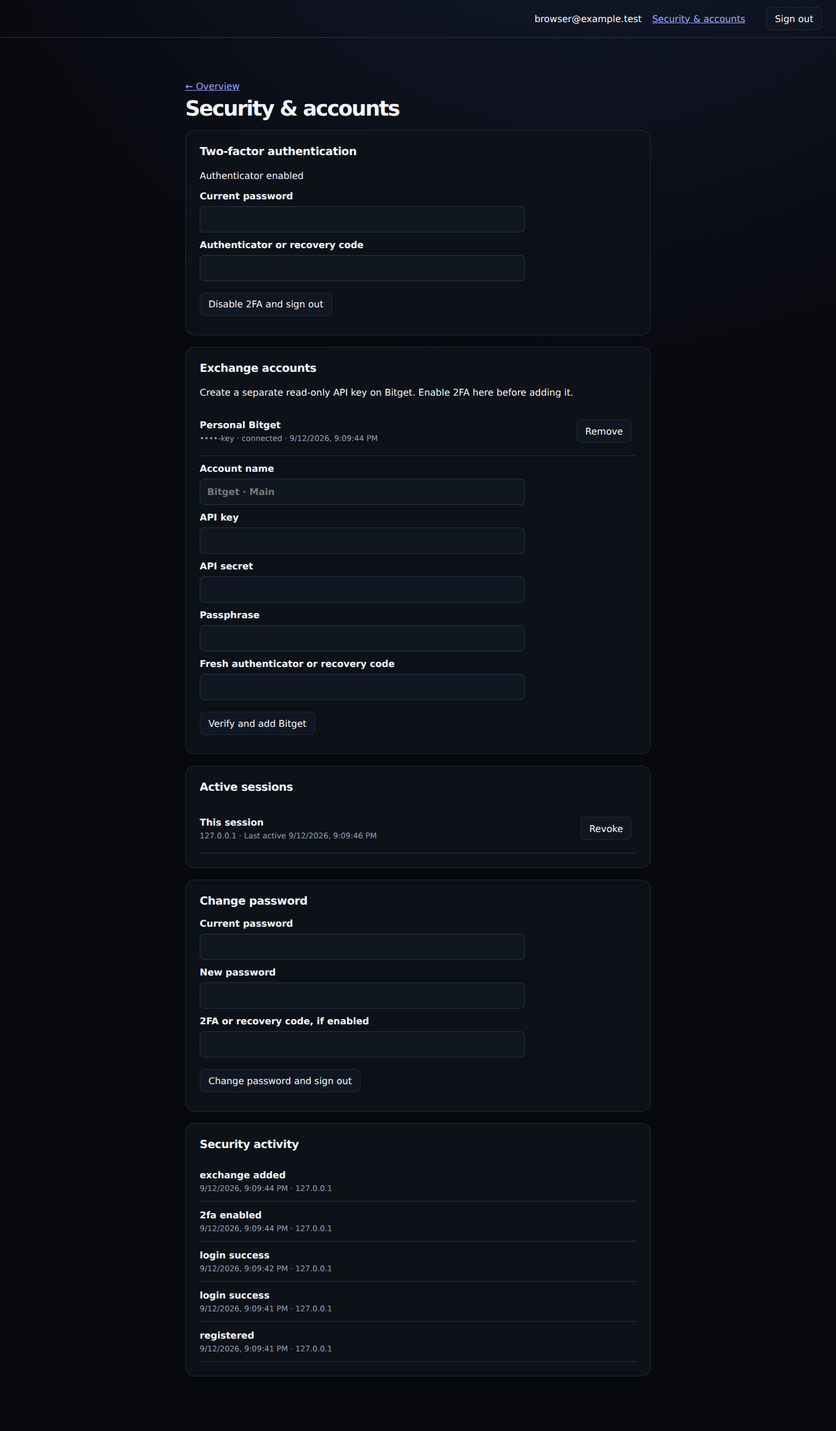
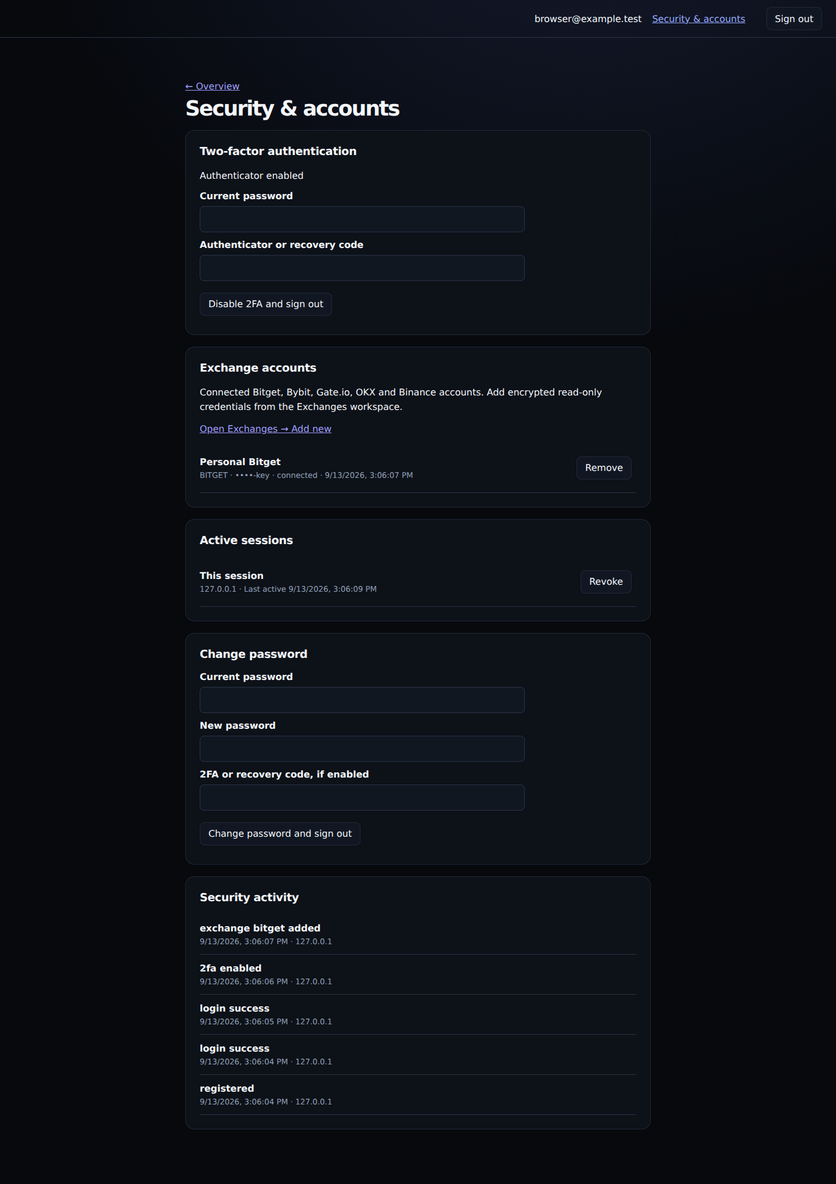
add multi exchanges

diff --git a/server/accounts.js b/server/accounts.js
@@ -1,5 +1,5 @@
 const crypto=require('node:crypto');
-const {createBitgetClient}=require('./bitget');
+const {createExchangeClient,definition}=require('./exchanges');
 const {seal,unseal}=require('./auth/crypto');
 const {userId}=require('./user-db');
 const {fail}=require('./auth/service');
@@ -7,16 +7,18 @@ function createAccounts(pool,auth){
   const cache=new Map();
   const aad=(owner,id)=>`exchange:${owner}:${id}`;
   async function list(){return(await pool.query('SELECT id,name,exchange,key_hint,status,last_checked,created_at FROM exchange_connections WHERE user_id=$1 ORDER BY created_at',[userId()])).rows;}
-  async function all(){
+  async function all({force=false}={}){
     const rows=(await pool.query('SELECT * FROM exchange_connections WHERE user_id=$1 ORDER BY created_at',[userId()])).rows;
     const accounts=[],warnings=[];
     for(const row of rows){
       try {
         let data=cache.get(row.id);
-        if(!data||Date.now()-data.updatedAt>20000){
+        if(force||!data||Date.now()-data.updatedAt>20000){
           const credentials=unseal(row.credentials,aad(row.user_id,row.id));
-          data=await createBitgetClient(credentials).fetchBitgetAccounts();cache.set(row.id,data);
+          const client=createExchangeClient(row.exchange,credentials);
+          data=client.fetchAccounts?await client.fetchAccounts():await client.fetchBitgetAccounts();cache.set(row.id,data);
           await pool.query("UPDATE exchange_connections SET last_checked=NOW(),status='connected' WHERE user_id=$1 AND id=$2",[row.user_id,row.id]);
+          row.status='connected';
         }
         for(const account of data.accounts){
           const id=`${row.id}:${account.type}`;
@@ -25,9 +27,15 @@ function createAccounts(pool,auth){
             positions:account.positions.map(p=>({...p,id:`${id}:${p.id}`,accountId:id}))});
         }
         if(data.warnings?.length)warnings.push(...data.warnings.map(warning=>`${row.name}: ${String(warning).slice(0,240)}`));
-      }catch(error){cache.delete(row.id);warnings.push(`${row.name}: ${String(error?.message||'connection failed').slice(0,240)}`);await pool.query("UPDATE exchange_connections SET status='error' WHERE user_id=$1 AND id=$2",[row.user_id,row.id]);}
+      }catch(error){cache.delete(row.id);row.status='error';warnings.push(`${row.name}: ${String(error?.message||'connection failed').slice(0,240)}`);await pool.query("UPDATE exchange_connections SET status='error' WHERE user_id=$1 AND id=$2",[row.user_id,row.id]);}
     }
-    return {version:2,updatedAt:Date.now(),accounts,exchanges:rows.length?[{id:'bitget',name:'Bitget',status:warnings.length?'partial':'connected',accountIds:accounts.map(a=>a.id)}]:[],warnings};
+    const exchanges=[];
+    for(const [id,meta] of Object.entries(require('./exchanges').definitions)){
+      const matchingRows=rows.filter(row=>row.exchange===id);if(!matchingRows.length)continue;
+      const ids=accounts.filter(item=>item.exchangeId===id).map(item=>item.id);
+      exchanges.push({id,name:meta.name,status:matchingRows.some(row=>row.status==='error')?'partial':'connected',accountIds:ids});
+    }
+    return {version:3,updatedAt:Date.now(),accounts,exchanges,warnings};
   }
   async function summary(){
     const data=await all(), unified=data.accounts.filter(a=>a.type==='unified');
@@ -40,21 +48,23 @@ function createAccounts(pool,auth){
     app.get('/api/connections',auth.requireUser,async(req,res)=>res.json({items:await list()}));
     app.post('/api/connections',auth.requireUser,async(req,res)=>{
       await auth.factor(req);await auth.limit('connection:'+req.user.id,5,300);
+      const exchange=String(req.body?.exchange||'bitget').trim().toLowerCase(),meta=definition(exchange);
+      if(!meta)throw fail(400,'Choose a supported exchange');
       const name=String(req.body?.name||'').trim();
       const credentials={apiKey:String(req.body?.apiKey||'').trim(),secret:String(req.body?.secret||'').trim(),passphrase:String(req.body?.passphrase||'').trim()};
-      if(!name||name.length>80||Object.values(credentials).some(v=>!v||v.length>512))throw fail(400,'Enter an account name, API key, secret and passphrase');
-      if(req.body?.readOnlyConfirmed!=='yes')throw fail(400,'Confirm that this Bitget API key is Read-only with Unified account > Manage and Trade data access');
-      try{await createBitgetClient(credentials).validateReadOnly();}catch(error){
-        const message=String(error?.message||'Bitget validation failed').replace(/^Bitget request failed:\s*/,'').slice(0,180);
-        throw fail(400,`Bitget connection failed: ${message}`);
+      if(!name||name.length>80||!credentials.apiKey||!credentials.secret||credentials.apiKey.length>512||credentials.secret.length>512||credentials.passphrase.length>512||(meta.passphrase&&!credentials.passphrase))throw fail(400,`Enter an account name, API key, secret${meta.passphrase?' and passphrase':''}`);
+      if(req.body?.readOnlyConfirmed!=='yes')throw fail(400,`Confirm that this ${meta.name} API key is Read-only and cannot trade, transfer or withdraw`);
+      try{await createExchangeClient(exchange,credentials).validateReadOnly();}catch(error){
+        const message=String(error?.message||`${meta.name} validation failed`).replace(new RegExp(`^${meta.name.replace('.','\\.')} request failed:\\s*`,'i'),'').slice(0,180);
+        throw fail(400,`${meta.name} connection failed: ${message}`);
       }
       const id=crypto.randomUUID();
       await auth.tx(async client=>{
         await client.query('SELECT id FROM users WHERE id=$1 FOR UPDATE',[req.user.id]);
         const n=(await client.query('SELECT COUNT(*) AS count FROM exchange_connections WHERE user_id=$1',[req.user.id])).rows[0].count;
-        if(Number(n)>=3)throw fail(400,'This beta supports up to 3 exchange connections per user');
-        await client.query("INSERT INTO exchange_connections(id,user_id,exchange,name,key_hint,credentials,last_checked) VALUES($1,$2,'bitget',$3,$4,$5,NOW())",[id,req.user.id,name,'••••'+credentials.apiKey.slice(-4),seal(credentials,aad(req.user.id,id))]);
-      });await auth.audit(req.user.id,'exchange_added',req);res.status(201).json({id,name});
+        if(Number(n)>=12)throw fail(400,'This beta supports up to 12 exchange connections per user');
+        await client.query("INSERT INTO exchange_connections(id,user_id,exchange,name,key_hint,credentials,last_checked) VALUES($1,$2,$3,$4,$5,$6,NOW())",[id,req.user.id,exchange,name,'••••'+credentials.apiKey.slice(-4),seal(credentials,aad(req.user.id,id))]);
+      });await auth.audit(req.user.id,`exchange_${exchange}_added`,req);res.status(201).json({id,name,exchange});
     });
     app.delete('/api/connections/:id',auth.requireUser,async(req,res)=>{
       await auth.factor(req);

diff --git a/server/binance.js b/server/binance.js
@@ -1,0 +1,24 @@
+const crypto=require('node:crypto');
+const {numberOrNull,nonZero,baseAsset,stablecoin,optional,account}=require('./exchange-common');
+
+function createBinanceClient(credentials){
+  async function request(base,path,query={}){
+    const params=new URLSearchParams({...Object.fromEntries(Object.entries(query).filter(([,v])=>v!==undefined&&v!==null&&v!=='')),timestamp:String(Date.now()),recvWindow:'5000'});
+    params.set('signature',crypto.createHmac('sha256',credentials.secret).update(params.toString()).digest('hex'));
+    const response=await fetch(`${base}${path}?${params}`,{headers:{'X-MBX-APIKEY':credentials.apiKey},signal:AbortSignal.timeout(15000)});const body=await response.json().catch(()=>({}));
+    if(!response.ok||body?.code<0)throw new Error(`Binance request failed: ${String(body?.msg||`HTTP ${response.status}`).slice(0,180)}`);return body;
+  }
+  async function publicPrices(){const response=await fetch('https://api.binance.com/api/v3/ticker/price',{signal:AbortSignal.timeout(15000)});if(!response.ok)return new Map();const rows=await response.json();return new Map(rows.map(row=>[row.symbol,Number(row.price)]));}
+  async function fetchAccounts(){
+    const warnings=[],spot=await request('https://api.binance.com','/api/v3/account',{omitZeroBalances:'true'}),prices=await optional('USD valuation',publicPrices,warnings)||new Map();
+    const futures=await optional('USD-M Futures',()=>request('https://fapi.binance.com','/fapi/v3/account'),warnings);
+    const usdValue=(coin,amount)=>stablecoin(coin)?Number(amount):(prices.get(`${coin}USDT`)?Number(amount)*prices.get(`${coin}USDT`):null);
+    const spotAssets=(spot.balances||[]).map(item=>{const equity=Number(item.free||0)+Number(item.locked||0);return {id:`binance:spot:${item.asset}`,exchangeId:'binance',accountId:'binance:spot',coin:String(item.asset||''),equity,available:numberOrNull(item.free),locked:numberOrNull(item.locked),usdValue:usdValue(item.asset,equity),debt:null};}).filter(item=>item.coin&&nonZero(item.equity,item.available,item.locked));
+    const positions=(futures?.positions||[]).map(item=>{const signed=numberOrNull(item.positionAmt),side=String(item.positionSide)==='SHORT'||(signed!==null&&signed<0)?'short':'long',size=signed===null?null:Math.abs(signed);return {id:`binance:usdm:${item.symbol}:${side}`,exchangeId:'binance',accountId:'binance:usdm',category:'USD-M',symbol:String(item.symbol||''),baseAsset:baseAsset(item.symbol),side,marginMode:item.isolated?'isolated':'cross',marginCoin:'USDT',size,sizeCurrency:baseAsset(item.symbol),leverage:numberOrNull(item.leverage),entryPrice:numberOrNull(item.entryPrice),markPrice:null,notional:Math.abs(Number(item.notional||0)),margin:numberOrNull(item.positionInitialMargin),marginUsd:numberOrNull(item.positionInitialMargin),liquidationPrice:null,unrealisedPnl:numberOrNull(item.unrealizedProfit),unrealisedPnlUsd:numberOrNull(item.unrealizedProfit),pnlCurrency:'USDT',profitRate:null,updatedAt:null};}).filter(item=>Number(item.size)!==0);
+    const futureAssets=(futures?.assets||[]).map(item=>({id:`binance:usdm:${item.asset}`,exchangeId:'binance',accountId:'binance:usdm',coin:String(item.asset||''),equity:numberOrNull(item.walletBalance),available:numberOrNull(item.availableBalance),locked:numberOrNull(item.initialMargin),usdValue:usdValue(item.asset,item.walletBalance),debt:null})).filter(item=>item.coin&&nonZero(item.equity,item.available,item.locked));
+    const updatedAt=Date.now(),spotEquity=spotAssets.every(x=>x.usdValue!==null)?spotAssets.reduce((s,x)=>s+x.usdValue,0):null,accounts=[account({exchangeId:'binance',exchangeName:'Binance',name:'Spot',type:'spot',updatedAt,summary:{equityUsd:spotEquity},assets:spotAssets})];
+    if(futures)accounts.push(account({exchangeId:'binance',exchangeName:'Binance',name:'USD-M Futures',type:'usdm',updatedAt,summary:{equityUsd:numberOrNull(futures.totalWalletBalance),availableUsd:numberOrNull(futures.availableBalance),unrealisedPnl:numberOrNull(futures.totalUnrealizedProfit),positionValue:positions.reduce((s,p)=>s+Number(p.notional||0),0)},assets:futureAssets,positions}));return {updatedAt,accounts,warnings};
+  }
+  return {fetchAccounts,async validateReadOnly(){const permissions=await request('https://api.binance.com','/sapi/v1/account/apiRestrictions');if(permissions.enableWithdrawals||permissions.enableInternalTransfer||permissions.enableSpotAndMarginTrading||permissions.enableFutures)throw new Error('Binance API key has trading, transfer or withdrawal permissions. Disable them first.');await request('https://api.binance.com','/api/v3/account',{omitZeroBalances:'true'});return true;}};
+}
+module.exports={createBinanceClient};

diff --git a/docs/security.html b/docs/security.html
@@ -5,11 +5,10 @@
 <div id="factorSecret" hidden><p>In your authenticator, add an account using this setup key. Keep this key private.</p><pre class="secret-output" id="secretValue"></pre><form method="post" id="enableFactor"><label>Six-digit code<input name="code" autocomplete="one-time-code" pattern="[0-9]{6}" required></label><button disabled>Enable 2FA</button></form></div>
 <div id="recoveryPanel" hidden><h3>Save your recovery codes</h3><p>Each code can be used once. These codes are shown only now. Store them safely before leaving.</p><pre class="secret-output" id="recoveryValue"></pre><button id="savedCodes" type="button">I saved my codes</button></div>
 <form method="post" id="disableFactor" hidden><label>Current password<input name="password" type="password" autocomplete="current-password" required></label><label>Authenticator or recovery code<input name="code" autocomplete="one-time-code" required></label><button disabled>Disable 2FA and sign out</button></form></section>
-<section class="panel account-panel" id="exchange-accounts"><h2>Exchange accounts</h2><p>Create a separate Bitget API key. Select <strong>Read-only</strong>, then enable Unified account → <strong>Manage</strong> and <strong>Trade</strong> data access. Keep transfers and withdrawals disabled.</p><div id="connections"></div>
-<form method="post" id="addConnection"><label>Account name<input name="name" placeholder="Bitget · Main" maxlength="80" required></label><label>API key<input name="apiKey" type="password" autocomplete="off" required></label><label>API secret<input name="secret" type="password" autocomplete="off" required></label><label>Passphrase<input name="passphrase" type="password" autocomplete="off" required></label><label class="check-label"><input name="readOnlyConfirmed" type="checkbox" value="yes" required><span>I confirm this key is globally Read-only with Unified account → Manage and Trade data access; transfers and withdrawals are disabled.</span></label><label>Fresh authenticator or recovery code<input name="code" autocomplete="one-time-code" required></label><button disabled>Verify and add Bitget</button></form>
+<section class="panel account-panel" id="exchange-accounts"><h2>Exchange accounts</h2><p>Connected Bitget, Bybit, Gate.io, OKX and Binance accounts. Add encrypted read-only credentials from the Exchanges workspace.</p><p><a href="exchanges.html">Open Exchanges → Add new</a></p><div id="connections"></div>
 <form method="post" id="removeConnection" hidden><input name="id" type="hidden"><p id="removeName"></p><label>Fresh authenticator or recovery code<input name="code" autocomplete="one-time-code" required></label><button disabled>Remove connection</button><button type="button" id="cancelRemove">Cancel</button></form></section>
 <section class="panel account-panel"><h2>Active sessions</h2><div id="sessions"></div></section>
 <section class="panel account-panel"><h2>Change password</h2><form method="post" id="changePassword"><label>Current password<input name="password" type="password" autocomplete="current-password" required></label><label>New password<input name="newPassword" type="password" autocomplete="new-password" minlength="12" maxlength="128" required></label><label>2FA or recovery code, if enabled<input name="code" autocomplete="one-time-code"></label><button disabled>Change password and sign out</button></form></section>
 <section class="panel account-panel"><h2>Security activity</h2><div id="events"></div></section>
-<section id="ownerSection" class="panel account-panel" hidden><h2>Existing personal workspace</h2><p>Only the configured owner can import the previous wallet settings and transaction history once. Reconnect Bitget above with a read-only key.</p><form method="post" id="importWorkspace"><label>Fresh authenticator or recovery code<input name="code" autocomplete="one-time-code" required></label><button disabled>Import previous workspace</button></form></section>
+<section id="ownerSection" class="panel account-panel" hidden><h2>Existing personal workspace</h2><p>Only the configured owner can import the previous wallet settings and transaction history once.</p><form method="post" id="importWorkspace"><label>Fresh authenticator or recovery code<input name="code" autocomplete="one-time-code" required></label><button disabled>Import previous workspace</button></form></section>
 <p id="securityStatus" role="status"></p></main><script src="session.js?v=11" data-module="security.js"></script></body></html>

diff --git a/server/gate.js b/server/gate.js
@@ -1,0 +1,24 @@
+const crypto=require('node:crypto');
+const {numberOrNull,nonZero,baseAsset,stablecoin,optional,account}=require('./exchange-common');
+
+function createGateClient(credentials){
+  const baseUrl='https://api.gateio.ws';
+  async function request(path,query={}){
+    const params=new URLSearchParams();for(const [key,value] of Object.entries(query))if(value!==undefined&&value!==null&&value!=='')params.set(key,String(value));
+    const queryString=params.toString(),timestamp=String(Math.floor(Date.now()/1000)),bodyHash=crypto.createHash('sha512').update('').digest('hex');
+    const sign=crypto.createHmac('sha512',credentials.secret).update(`GET\n${path}\n${queryString}\n${bodyHash}\n${timestamp}`).digest('hex');
+    const response=await fetch(`${baseUrl}${path}${queryString?'?'+queryString:''}`,{headers:{KEY:credentials.apiKey,Timestamp:timestamp,SIGN:sign},signal:AbortSignal.timeout(15000)});const body=await response.json().catch(()=>({}));
+    if(!response.ok)throw new Error(`Gate.io request failed: ${String(body?.message||body?.label||`HTTP ${response.status}`).slice(0,180)}`);return body;
+  }
+  function normalizePosition(item,settle){const signed=numberOrNull(item.size),side=signed!==null&&signed<0?'short':'long',symbol=String(item.contract||''),pnl=numberOrNull(item.unrealised_pnl),pnlCurrency=String(item.settlement_currency||settle).toUpperCase();return {id:`gate:${settle}:${symbol}:${side}`,exchangeId:'gate',accountId:`gate:futures-${settle}`,category:`${settle.toUpperCase()}-FUTURES`,symbol,baseAsset:baseAsset(symbol),side,marginMode:String(item.mode||''),marginCoin:pnlCurrency,size:signed===null?null:Math.abs(signed),sizeCurrency:'contracts',leverage:numberOrNull(item.leverage),entryPrice:numberOrNull(item.entry_price),markPrice:numberOrNull(item.mark_price),notional:Math.abs(Number(item.value||0)),margin:numberOrNull(item.margin),marginUsd:stablecoin(pnlCurrency)?numberOrNull(item.margin):null,liquidationPrice:numberOrNull(item.liq_price??item.liquidation_price),unrealisedPnl:pnl,unrealisedPnlUsd:stablecoin(pnlCurrency)?pnl:null,pnlCurrency,profitRate:null,updatedAt:numberOrNull(item.update_time_ms)};}
+  async function fetchAccounts(){
+    const warnings=[],spot=await request('/api/v4/spot/accounts');
+    const results=await Promise.all(['usdt','btc'].map(settle=>Promise.all([optional(`${settle.toUpperCase()} futures account`,()=>request(`/api/v4/futures/${settle}/accounts`),warnings),optional(`${settle.toUpperCase()} futures positions`,()=>request(`/api/v4/futures/${settle}/positions`),warnings)])));
+    const spotAssets=(spot||[]).map(item=>({id:`gate:spot:${item.currency}`,exchangeId:'gate',accountId:'gate:spot',coin:String(item.currency||''),equity:Number(item.available||0)+Number(item.locked||0),available:numberOrNull(item.available),locked:numberOrNull(item.locked),usdValue:null,debt:null})).filter(item=>item.coin&&nonZero(item.equity,item.available,item.locked));
+    const updatedAt=Date.now(),accounts=[account({exchangeId:'gate',exchangeName:'Gate.io',name:'Spot',type:'spot',updatedAt,assets:spotAssets})];
+    results.forEach(([details,rows],index)=>{if(!details&&!rows)return;const settle=['usdt','btc'][index],positions=(rows||[]).map(item=>normalizePosition(item,settle)).filter(item=>Number(item.size)!==0),currency=String(details?.currency||settle).toUpperCase(),equity=numberOrNull(details?.total);const assets=details?[{id:`gate:futures-${settle}:${currency}`,exchangeId:'gate',accountId:`gate:futures-${settle}`,coin:currency,equity,available:numberOrNull(details.available),locked:numberOrNull(details.position_margin),usdValue:stablecoin(currency)?equity:null,debt:null}].filter(x=>nonZero(x.equity,x.available,x.locked)):[];accounts.push(account({exchangeId:'gate',exchangeName:'Gate.io',name:`${settle.toUpperCase()} Futures`,type:`futures-${settle}`,updatedAt,summary:{equityUsd:stablecoin(currency)?equity:null,availableUsd:stablecoin(currency)?numberOrNull(details?.available):null,unrealisedPnl:stablecoin(currency)?numberOrNull(details?.unrealised_pnl):null,positionValue:positions.reduce((s,p)=>s+Number(p.notional||0),0)},assets,positions}));});
+    return {updatedAt,accounts,warnings};
+  }
+  return {fetchAccounts,async validateReadOnly(){await request('/api/v4/spot/accounts');return {permissionsConfirmed:false};}};
+}
+module.exports={createGateClient};

diff --git a/server/okx.js b/server/okx.js
@@ -1,0 +1,28 @@
+const crypto=require('node:crypto');
+const {numberOrNull,nonZero,baseAsset,stablecoin,optional,account}=require('./exchange-common');
+
+function createOkxClient(credentials){
+  const baseUrl='https://www.okx.com';
+  async function request(path,query={}){
+    const params=new URLSearchParams();for(const [key,value] of Object.entries(query))if(value!==undefined&&value!==null&&value!=='')params.set(key,String(value));
+    const requestPath=`${path}${params.size?'?'+params:''}`,timestamp=new Date().toISOString();
+    const sign=crypto.createHmac('sha256',credentials.secret).update(`${timestamp}GET${requestPath}`).digest('base64');
+    const response=await fetch(baseUrl+requestPath,{headers:{'OK-ACCESS-KEY':credentials.apiKey,'OK-ACCESS-SIGN':sign,'OK-ACCESS-TIMESTAMP':timestamp,'OK-ACCESS-PASSPHRASE':credentials.passphrase},signal:AbortSignal.timeout(15000)});
+    const body=await response.json().catch(()=>({}));if(!response.ok||String(body.code)!=='0')throw new Error(`OKX request failed: ${String(body.msg||`HTTP ${response.status}`).slice(0,180)}`);return body.data;
+  }
+  function normalizePosition(item){
+    const symbol=String(item.instId||''),signed=numberOrNull(item.pos),side=String(item.posSide||'').toLowerCase()==='short'||(signed!==null&&signed<0)?'short':'long',size=signed===null?null:Math.abs(signed),pnl=numberOrNull(item.upl),pnlCurrency=String(item.ccy||symbol.split('-').at(-1)||'').toUpperCase();
+    return {id:`okx:${symbol}:${side}`,exchangeId:'okx',accountId:'okx:trading',category:String(item.instType||''),symbol,baseAsset:baseAsset(symbol),side,marginMode:String(item.mgnMode||''),marginCoin:pnlCurrency,size,sizeCurrency:baseAsset(symbol),leverage:numberOrNull(item.lever),entryPrice:numberOrNull(item.avgPx),markPrice:numberOrNull(item.markPx),notional:numberOrNull(item.notionalUsd),margin:numberOrNull(item.margin),marginUsd:null,liquidationPrice:numberOrNull(item.liqPx),unrealisedPnl:pnl,unrealisedPnlUsd:stablecoin(pnlCurrency)?pnl:null,pnlCurrency,profitRate:numberOrNull(item.uplRatio),updatedAt:numberOrNull(item.uTime)};
+  }
+  async function fetchAccounts(){
+    const warnings=[],balance=await request('/api/v5/account/balance'),root=balance?.[0];if(!root)throw new Error('OKX returned no trading account');
+    const [positionRows,fundingRows]=await Promise.all([optional('Positions',()=>request('/api/v5/account/positions'),warnings),optional('Funding assets',()=>request('/api/v5/asset/balances'),warnings)]);
+    const positions=(positionRows||[]).map(normalizePosition).filter(item=>Number(item.size)!==0);
+    const tradingAssets=(root.details||[]).map(item=>({id:`okx:trading:${item.ccy}`,exchangeId:'okx',accountId:'okx:trading',coin:String(item.ccy||''),equity:numberOrNull(item.eq),available:numberOrNull(item.availBal),locked:numberOrNull(item.frozenBal),usdValue:numberOrNull(item.eqUsd),debt:numberOrNull(item.debt)})).filter(item=>item.coin&&nonZero(item.equity,item.available,item.locked,item.debt));
+    const fundingAssets=(fundingRows||[]).map(item=>({id:`okx:funding:${item.ccy}`,exchangeId:'okx',accountId:'okx:funding',coin:String(item.ccy||''),equity:numberOrNull(item.bal),available:numberOrNull(item.availBal),locked:numberOrNull(item.frozenBal),usdValue:null,debt:null})).filter(item=>item.coin&&nonZero(item.equity,item.available,item.locked));
+    const updatedAt=Date.now(),accounts=[account({exchangeId:'okx',exchangeName:'OKX',name:'Trading',type:'trading',updatedAt,summary:{equityUsd:numberOrNull(root.totalEq),availableUsd:numberOrNull(root.availEq),unrealisedPnl:numberOrNull(root.upl),positionValue:positions.reduce((sum,p)=>sum+Number(p.notional||0),0)},assets:tradingAssets,positions})];
+    if(fundingAssets.length)accounts.push(account({exchangeId:'okx',exchangeName:'OKX',name:'Funding',type:'funding',updatedAt,assets:fundingAssets}));return {updatedAt,accounts,warnings};
+  }
+  return {fetchAccounts,async validateReadOnly(){const rows=await request('/api/v5/account/config'),config=rows?.[0],permissions=String(config?.perm||'').toLowerCase().split(',').map(x=>x.trim());if(!permissions.includes('read_only')||permissions.some(x=>x==='trade'||x.includes('withdraw')))throw new Error('OKX API key must have Read permission only');await request('/api/v5/account/balance');return true;}};
+}
+module.exports={createOkxClient};

diff --git a/server/bybit.js b/server/bybit.js
@@ -1,0 +1,29 @@
+const crypto=require('node:crypto');
+const {numberOrNull,nonZero,baseAsset,stablecoin,optional,account}=require('./exchange-common');
+
+function createBybitClient(credentials){
+  const baseUrl='https://api.bybit.com',recvWindow='5000';
+  async function request(path,query={}){
+    const params=new URLSearchParams();for(const [key,value] of Object.entries(query))if(value!==undefined&&value!==null&&value!=='')params.set(key,String(value));
+    const queryString=params.toString(),timestamp=String(Date.now());
+    const signature=crypto.createHmac('sha256',credentials.secret).update(`${timestamp}${credentials.apiKey}${recvWindow}${queryString}`).digest('hex');
+    const response=await fetch(`${baseUrl}${path}${queryString?'?'+queryString:''}`,{headers:{'X-BAPI-API-KEY':credentials.apiKey,'X-BAPI-SIGN':signature,'X-BAPI-TIMESTAMP':timestamp,'X-BAPI-RECV-WINDOW':recvWindow},signal:AbortSignal.timeout(15000)});
+    const body=await response.json().catch(()=>({}));if(!response.ok||Number(body.retCode)!==0)throw new Error(`Bybit request failed: ${String(body.retMsg||`HTTP ${response.status}`).slice(0,180)}`);return body.result;
+  }
+  function position(item,category){
+    const symbol=String(item.symbol||''),size=numberOrNull(item.size),mark=numberOrNull(item.markPrice),inverse=category==='inverse';
+    const pnl=numberOrNull(item.unrealisedPnl),pnlCurrency=inverse?baseAsset(symbol):(symbol.endsWith('USDC')?'USDC':'USDT');
+    return {id:`bybit:${category}:${symbol}:${String(item.side||'').toLowerCase()}`,exchangeId:'bybit',accountId:'bybit:unified',category:category.toUpperCase(),symbol,baseAsset:baseAsset(symbol),side:String(item.side).toLowerCase()==='sell'?'short':'long',marginMode:'',marginCoin:pnlCurrency,size,sizeCurrency:baseAsset(symbol),leverage:numberOrNull(item.leverage),entryPrice:numberOrNull(item.avgPrice),markPrice:mark,notional:numberOrNull(item.positionValue)??(size!==null&&mark!==null?Math.abs(size*mark):null),margin:numberOrNull(item.positionIM),marginUsd:numberOrNull(item.positionIM),liquidationPrice:numberOrNull(item.liqPrice),unrealisedPnl:pnl,unrealisedPnlUsd:pnl===null?null:stablecoin(pnlCurrency)?pnl:(mark!==null?pnl*mark:null),pnlCurrency,profitRate:null,updatedAt:numberOrNull(item.updatedTime)};
+  }
+  async function fetchAccounts(){
+    const warnings=[],wallet=await request('/v5/account/wallet-balance',{accountType:'UNIFIED'}),root=wallet?.list?.[0];if(!root)throw new Error('Bybit returned no Unified account');
+    const specs=[['linear',{category:'linear',settleCoin:'USDT',limit:200}],['linear',{category:'linear',settleCoin:'USDC',limit:200}],['inverse',{category:'inverse',limit:200}],['option',{category:'option',limit:200}]];
+    const results=await Promise.all(specs.map(([label,query])=>optional(`${label} positions`,()=>request('/v5/position/list',query),warnings)));
+    const positions=results.flatMap((result,index)=>(result?.list||[]).map(item=>position(item,specs[index][0]))).filter(item=>Number(item.size)!==0);
+    const assets=(root.coin||[]).map(item=>({id:`bybit:unified:${item.coin}`,exchangeId:'bybit',accountId:'bybit:unified',coin:String(item.coin||''),equity:numberOrNull(item.equity),available:null,locked:numberOrNull(item.locked),usdValue:numberOrNull(item.usdValue),debt:numberOrNull(item.borrowAmount)})).filter(item=>item.coin&&nonZero(item.equity,item.locked,item.debt));
+    const updatedAt=Date.now(),accounts=[account({exchangeId:'bybit',exchangeName:'Bybit',name:'Unified',type:'unified',updatedAt,summary:{equityUsd:numberOrNull(root.totalEquity),availableUsd:numberOrNull(root.totalAvailableBalance),unrealisedPnl:numberOrNull(root.totalPerpUPL),positionValue:positions.reduce((sum,p)=>sum+Number(p.notional||0),0)},assets,positions})];
+    return {updatedAt,accounts,warnings};
+  }
+  return {fetchAccounts,async validateReadOnly(){const info=await request('/v5/user/query-api');if(Number(info?.readOnly)!==1)throw new Error('Bybit API key is not Read-only');await request('/v5/account/wallet-balance',{accountType:'UNIFIED'});return true;}};
+}
+module.exports={createBybitClient};

diff --git a/tests/exchanges.test.js b/tests/exchanges.test.js
@@ -1,0 +1,31 @@
+const test=require('node:test');
+const assert=require('node:assert/strict');
+const {createBybitClient}=require('../server/bybit');
+const {createOkxClient}=require('../server/okx');
+const {createBinanceClient}=require('../server/binance');
+const {createGateClient}=require('../server/gate');
+
+async function withFetch(handler,work){const native=global.fetch;global.fetch=handler;try{return await work();}finally{global.fetch=native;}}
+const credentials={apiKey:'key',secret:'secret',passphrase:'pass'};
+
+test('Bybit adapter enforces read-only and normalizes Unified assets and positions',async()=>withFetch(async url=>{
+  const value=String(url);
+  if(value.includes('query-api'))return Response.json({retCode:0,result:{readOnly:1}});
+  if(value.includes('wallet-balance'))return Response.json({retCode:0,result:{list:[{totalEquity:'120',totalAvailableBalance:'90',totalPerpUPL:'2',coin:[{coin:'USDT',equity:'100',locked:'4',usdValue:'100',borrowAmount:'0'}]}]}});
+  if(value.includes('position/list')&&value.includes('settleCoin=USDT'))return Response.json({retCode:0,result:{list:[{symbol:'BTCUSDT',side:'Buy',size:'0.01',avgPrice:'60000',markPrice:'61000',positionValue:'610',positionIM:'61',unrealisedPnl:'10',leverage:'10',liqPrice:'50000'}]}});
+  return Response.json({retCode:0,result:{list:[]}});
+},async()=>{const client=createBybitClient(credentials);await client.validateReadOnly();const data=await client.fetchAccounts();assert.equal(data.accounts[0].assets[0].coin,'USDT');assert.equal(data.accounts[0].positions[0].unrealisedPnlUsd,10);}));
+
+test('OKX adapter rejects trading keys and maps trading account',async()=>{
+  await withFetch(async url=>Response.json({code:'0',data:String(url).includes('/config')?[{perm:'read_only,trade'}]:[]}),async()=>assert.rejects(()=>createOkxClient(credentials).validateReadOnly(),/Read permission only/));
+  await withFetch(async url=>{const value=String(url);if(value.includes('/config'))return Response.json({code:'0',data:[{perm:'read_only'}]});if(value.includes('/balance'))return Response.json({code:'0',data:[{totalEq:'50',availEq:'45',upl:'1',details:[{ccy:'USDT',eq:'50',availBal:'45',frozenBal:'5',eqUsd:'50',debt:'0'}]}]});if(value.includes('/positions'))return Response.json({code:'0',data:[]});return Response.json({code:'0',data:[]});},async()=>{const client=createOkxClient(credentials);await client.validateReadOnly();const data=await client.fetchAccounts();assert.equal(data.accounts[0].summary.equityUsd,50);});
+});
+
+test('Binance adapter blocks enabled write permissions and returns spot assets',async()=>{
+  await withFetch(async url=>Response.json(String(url).includes('apiRestrictions')?{enableWithdrawals:true}:{balances:[]}),async()=>assert.rejects(()=>createBinanceClient(credentials).validateReadOnly(),/trading, transfer or withdrawal/));
+  await withFetch(async url=>{const value=String(url);if(value.includes('ticker/price'))return Response.json([{symbol:'BTCUSDT',price:'60000'}]);if(value.includes('fapi'))return Response.json({totalWalletBalance:'10',availableBalance:'9',totalUnrealizedProfit:'1',assets:[],positions:[]});return Response.json({balances:[{asset:'BTC',free:'0.01',locked:'0'}]});},async()=>{const data=await createBinanceClient(credentials).fetchAccounts();assert.equal(data.accounts[0].assets[0].usdValue,600);assert.equal(data.accounts.length,2);});
+});
+
+test('Gate.io adapter signs read requests and maps spot assets',async()=>withFetch(async url=>{
+  const value=String(url);if(value.includes('/spot/accounts'))return Response.json([{currency:'USDT',available:'20',locked:'2'}]);return Response.json([]);
+},async()=>{const client=createGateClient(credentials);await client.validateReadOnly();const data=await client.fetchAccounts();assert.equal(data.accounts[0].assets[0].equity,22);}));

diff --git a/docs/exchanges.js b/docs/exchanges.js
@@ -8,7 +8,7 @@ const state = {
   data: null,
   pendingData: null,
   selected: new Set(loadJson(SELECTION_KEY, [])),
-  expanded: new Set(['bitget']),
+  expanded: new Set(['bitget','bybit','gate','okx','binance']),
   view: Treasury.storage.getItem(VIEW_KEY) === 'account' ? 'account' : 'consolidated',
   tab: 'assets',
   search: '',
@@ -225,8 +225,8 @@ function renderWarnings() {
     el.warning.replaceChildren();
     return;
   }
-  const positionAccess = warnings.some(warning => /position|uta trade/i.test(warning));
-  el.warning.innerHTML = `${positionAccess ? '<strong>Some position data is unavailable</strong><span>Keep the Bitget API key Read-only and enable Unified account → Trade, then refresh.</span>' : '<strong>Some exchange data is unavailable</strong>'}<details><summary>Technical details</summary><ul>${warnings.map(warning => `<li>${escapeHtml(warning)}</li>`).join('')}</ul></details>`;
+  const bitgetPositionAccess = warnings.some(warning => /bitget.*(position|uta trade)/i.test(warning));
+  el.warning.innerHTML = `${bitgetPositionAccess ? '<strong>Some Bitget position data is unavailable</strong><span>Keep the key globally Read-only and enable Unified account → Trade data access, then refresh.</span>' : '<strong>Some exchange data is unavailable</strong><span>Available accounts remain visible; review the affected key permissions below.</span>'}<details><summary>Technical details</summary><ul>${warnings.map(warning => `<li>${escapeHtml(warning)}</li>`).join('')}</ul></details>`;
 }
 
 function render({ preserveScroll = true } = {}) {
@@ -348,6 +348,23 @@ document.querySelector('#openAddExchange').addEventListener('click', () => {
   el.addForm.elements.name.focus();
 });
 
+const exchangeFormOptions = {
+  bitget:{name:'Bitget Main',passphrase:true,text:'API key is <strong>Read-only</strong>; Unified account → <strong>Manage</strong> and <strong>Trade</strong> data access are enabled; transfers and withdrawals are disabled.'},
+  bybit:{name:'Bybit Main',passphrase:false,text:'API key is <strong>Read-only</strong> and has Account, Wallet and Position query access. Trading, transfers and withdrawals are disabled.'},
+  gate:{name:'Gate.io Main',passphrase:false,text:'Every Gate.io permission is <strong>Read-only</strong>. Spot, wallet and futures queries are enabled; trading and withdrawals are disabled.'},
+  okx:{name:'OKX Main',passphrase:true,text:'API key has the <strong>Read</strong> permission only. The Trade and Withdraw permissions are disabled.'},
+  binance:{name:'Binance Main',passphrase:false,text:'API key is <strong>read-only</strong>. Spot & Margin Trading, Futures trading, withdrawals and universal transfers are disabled.'},
+};
+function updateExchangeForm(){
+  const id=el.addForm.elements.exchange.value,option=exchangeFormOptions[id]||exchangeFormOptions.bitget;
+  const passphrase=el.addForm.elements.passphrase,wrapper=document.querySelector('#newExchangePassphrase');
+  wrapper.hidden=!option.passphrase;passphrase.required=option.passphrase;if(!option.passphrase)passphrase.value='';
+  document.querySelector('#newExchangeName').placeholder=option.name;
+  document.querySelector('#newExchangePermission').innerHTML=option.text;
+}
+el.addForm.elements.exchange.addEventListener('change',updateExchangeForm);
+updateExchangeForm();
+
 function closeAddExchange() {
   if (el.addSubmit.disabled) return;
   el.addError.textContent = '';
@@ -376,6 +393,7 @@ el.addForm.addEventListener('submit', async event => {
     const result = await response.json().catch(() => ({}));
     if (!response.ok) throw new Error(result.error || `Connection service returned ${response.status}`);
     el.addForm.reset();
+    updateExchangeForm();
     el.addDialog.close();
     await loadData({ force:true });
   } catch (error) {

diff --git a/docs/exchanges.html b/docs/exchanges.html
@@ -87,14 +87,14 @@
   <dialog class="exchange-add-dialog" id="addExchangeDialog">
     <form id="addExchangeForm" method="post">
       <div class="dialog-head"><div><span class="eyebrow">NEW CONNECTION</span><h2>Add exchange account</h2></div><button class="icon-button" id="closeAddExchange" type="button" aria-label="Close">×</button></div>
-      <label>Exchange<select class="dialog-select" name="exchange" disabled><option>Bitget</option></select></label>
-      <label>Account name<input name="name" placeholder="Bitget Main" maxlength="80" required></label>
+      <label>Exchange<select class="dialog-select" name="exchange" id="newExchange" required><option value="bitget">Bitget</option><option value="bybit">Bybit</option><option value="gate">Gate.io</option><option value="okx">OKX</option><option value="binance">Binance</option></select></label>
+      <label>Account name<input name="name" id="newExchangeName" placeholder="Bitget Main" maxlength="80" required></label>
       <label>API key<input name="apiKey" type="password" autocomplete="off" required></label>
       <label>API secret<input name="secret" type="password" autocomplete="off" required></label>
-      <label>Passphrase<input name="passphrase" type="password" autocomplete="off" required></label>
-      <label class="exchange-permission-confirm"><input name="readOnlyConfirmed" type="checkbox" value="yes" required><span>API key is <strong>Read-only</strong>; Unified account → <strong>Manage</strong> and <strong>Trade</strong> are enabled; transfers and withdrawals are disabled.</span></label>
+      <label id="newExchangePassphrase">Passphrase<input name="passphrase" type="password" autocomplete="off" required></label>
+      <label class="exchange-permission-confirm"><input name="readOnlyConfirmed" type="checkbox" value="yes" required><span id="newExchangePermission">API key is <strong>Read-only</strong>; Unified account → <strong>Manage</strong> and <strong>Trade</strong> data access are enabled; transfers and withdrawals are disabled.</span></label>
       <label>Fresh authenticator or recovery code<input name="code" autocomplete="one-time-code" required></label>
-      <p class="dialog-note">Credentials are encrypted on the server and are never returned to the browser.</p>
+      <p class="dialog-note">Use a separate API key with IP allowlisting when available. Credentials are encrypted on the server and are never returned to the browser.</p>
       <p class="dialog-error" id="addExchangeError" role="alert"></p>
       <div class="dialog-actions"><button class="secondary" id="cancelAddExchange" type="button">Cancel</button><button id="submitAddExchange" type="submit">Verify and add</button></div>
     </form>

diff --git a/docs/security.js b/docs/security.js
@@ -12,10 +12,9 @@
     const [security,connections]=await Promise.all([api('auth/security'),api('connections')]);
     $('factorStatus').textContent=security.twoFactorEnabled?'Authenticator enabled':'Authenticator not enabled';
     $('setupFactor').hidden=security.twoFactorEnabled;$('disableFactor').hidden=!security.twoFactorEnabled;
-    $('addConnection').querySelector('button').disabled=!security.twoFactorEnabled;
     $('sessions').replaceChildren();for(const s of security.sessions)row($('sessions'),s.current?'This session':s.user_agent,`${s.ip} · Last active ${new Date(s.last_seen).toLocaleString()}`,{label:'Revoke',run:async()=>{try{await api('auth/sessions/'+s.id_hash,'DELETE');if(s.current)location.replace('auth.html');else await refresh();}catch(e){$('securityStatus').textContent=e.message;}}});
     $('connections').replaceChildren();if(!connections.items.length)$('connections').textContent='No exchange accounts connected yet.';
-    for(const c of connections.items)row($('connections'),c.name,`${c.key_hint} · ${c.status}${c.last_checked?' · '+new Date(c.last_checked).toLocaleString():''}`,{label:'Remove',run:()=>{$('removeConnection').hidden=false;$('removeConnection').elements.id.value=c.id;$('removeName').textContent=`Remove ${c.name}?`;}});
+    for(const c of connections.items)row($('connections'),c.name,`${String(c.exchange||'').toUpperCase()} · ${c.key_hint} · ${c.status}${c.last_checked?' · '+new Date(c.last_checked).toLocaleString():''}`,{label:'Remove',run:()=>{$('removeConnection').hidden=false;$('removeConnection').elements.id.value=c.id;$('removeName').textContent=`Remove ${c.name}?`;}});
     $('events').replaceChildren();for(const e of security.events)row($('events'),e.event.replaceAll('_',' '),`${new Date(e.created_at).toLocaleString()} · ${e.ip}`);
   }
   bind('setupFactor','auth/mfa/setup',r=>{$('factorSecret').hidden=false;$('secretValue').textContent=r.secret;});
@@ -23,7 +22,6 @@
   $('savedCodes').onclick=()=>{$('recoveryPanel').hidden=true;$('recoveryValue').textContent='';};
   bind('disableFactor','auth/mfa/disable',()=>location.replace('auth.html'));
   bind('changePassword','auth/password',()=>location.replace('auth.html'));
-  bind('addConnection','connections',refresh);
   bind('removeConnection',body=>'connections/'+body.id,async()=>{$('removeConnection').hidden=true;await refresh();},'DELETE');
   $('cancelRemove').onclick=()=>{$('removeConnection').hidden=true;};
   bind('importWorkspace','owner/import',()=>location.replace('index.html'));

diff --git a/server/exchange-common.js b/server/exchange-common.js
@@ -1,0 +1,34 @@
+function numberOrNull(value) {
+  if (value === '' || value === null || value === undefined) return null;
+  const number = Number(value);
+  return Number.isFinite(number) ? number : null;
+}
+
+function nonZero(...values) {
+  return values.some(value => Number.isFinite(Number(value)) && Number(value) !== 0);
+}
+
+function baseAsset(symbol) {
+  const value = String(symbol || '').toUpperCase();
+  return value.split(/[-_]/)[0]
+    .replace(/(?:USDT|USDC|BUSD|USD)$/, '') || value;
+}
+
+function stablecoin(value) {
+  return ['USD', 'USDT', 'USDC', 'BUSD', 'FDUSD', 'DAI'].includes(String(value || '').toUpperCase());
+}
+
+async function optional(label, work, warnings) {
+  try { return await work(); }
+  catch (error) {
+    warnings.push(`${label}: ${String(error?.message || 'request failed').slice(0, 180)}`);
+    return null;
+  }
+}
+
+function account({ exchangeId, exchangeName, name, type, updatedAt, summary = {}, assets = [], positions = [] }) {
+  return { id:`${exchangeId}:${type}`, exchangeId, exchangeName, name, type, status:'connected', updatedAt,
+    summary:{ equityUsd:null, availableUsd:null, lockedUsd:null, unrealisedPnl:null, positionValue:null, ...summary }, assets, positions };
+}
+
+module.exports={numberOrNull,nonZero,baseAsset,stablecoin,optional,account};

diff --git a/server/exchanges.js b/server/exchanges.js
@@ -1,0 +1,16 @@
+const {createBitgetClient}=require('./bitget');
+const {createBybitClient}=require('./bybit');
+const {createGateClient}=require('./gate');
+const {createOkxClient}=require('./okx');
+const {createBinanceClient}=require('./binance');
+
+const definitions={
+  bitget:{name:'Bitget',passphrase:true,create:createBitgetClient},
+  bybit:{name:'Bybit',passphrase:false,create:createBybitClient},
+  gate:{name:'Gate.io',passphrase:false,create:createGateClient},
+  okx:{name:'OKX',passphrase:true,create:createOkxClient},
+  binance:{name:'Binance',passphrase:false,create:createBinanceClient},
+};
+function definition(id){return definitions[String(id||'').toLowerCase()]||null;}
+function createExchangeClient(id,credentials){const item=definition(id);if(!item)throw new Error('Unsupported exchange');return item.create(credentials);}
+module.exports={definitions,definition,createExchangeClient};
